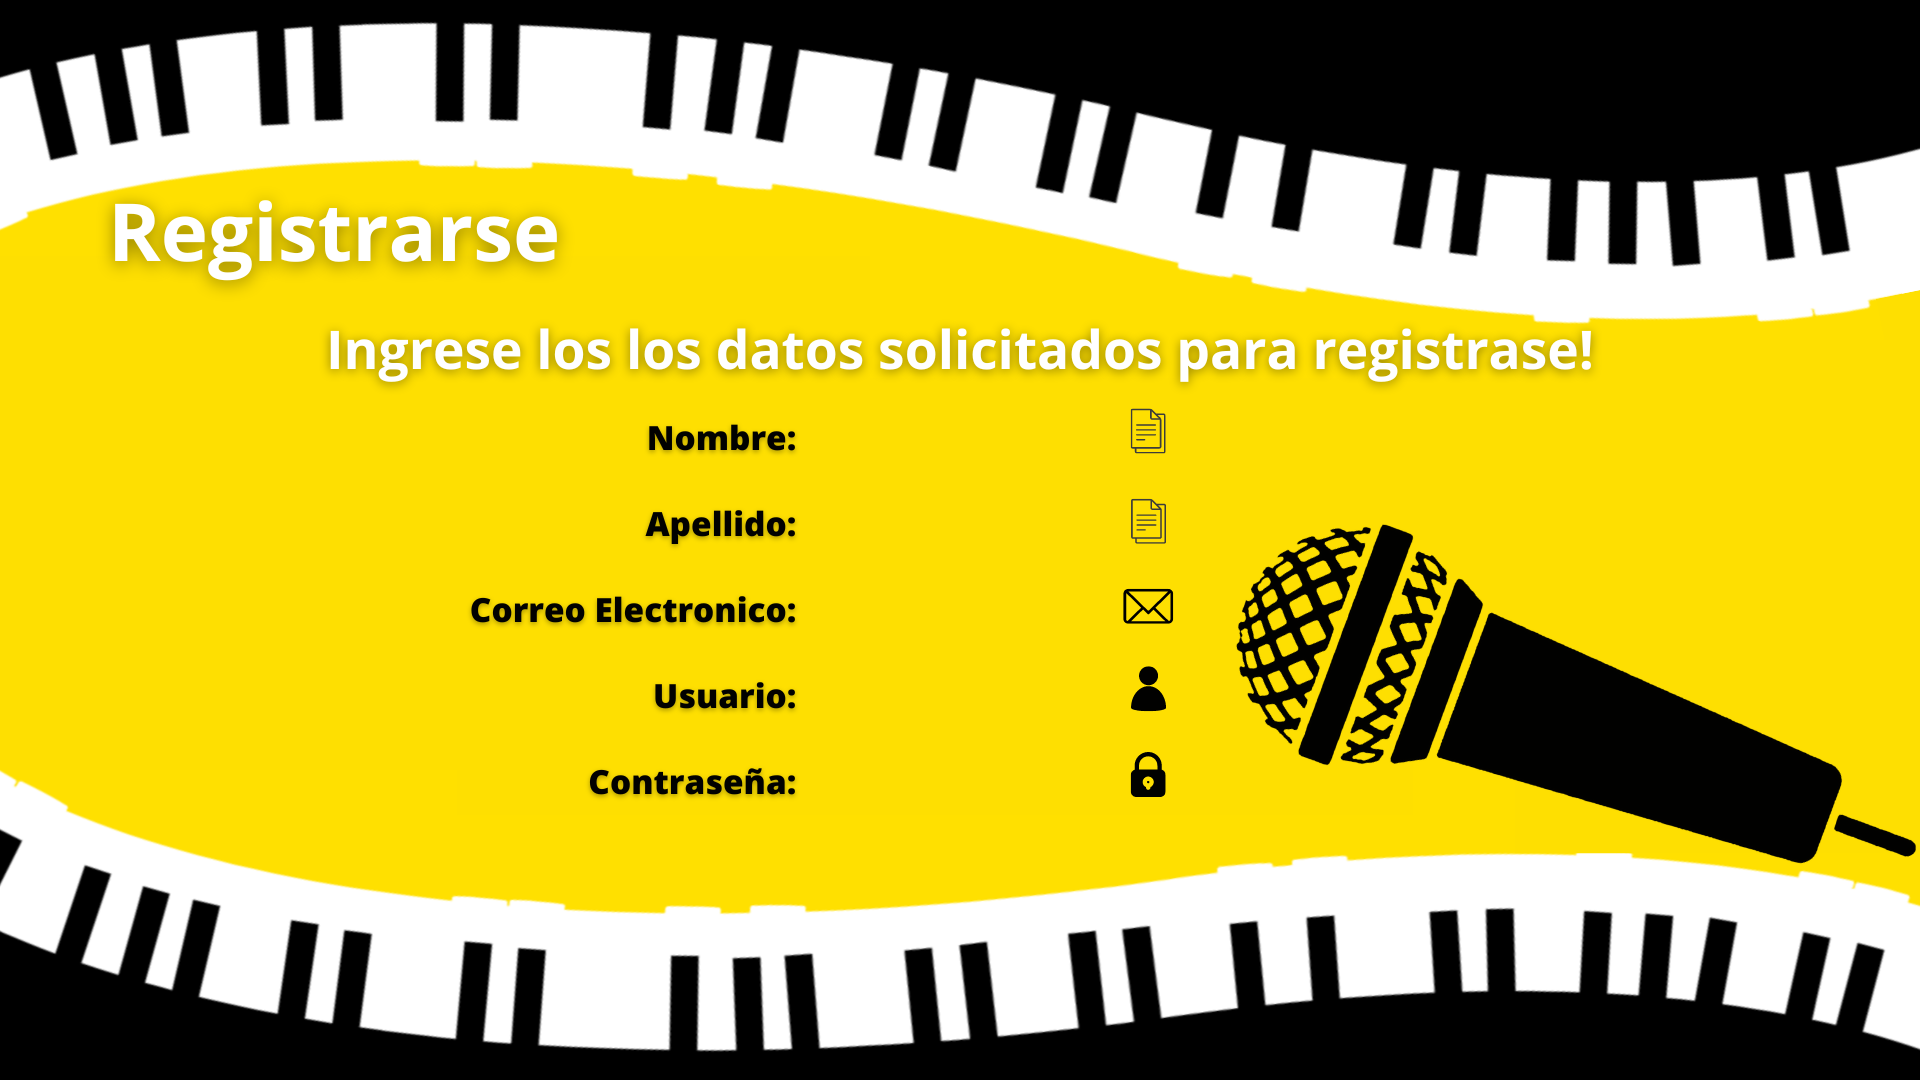
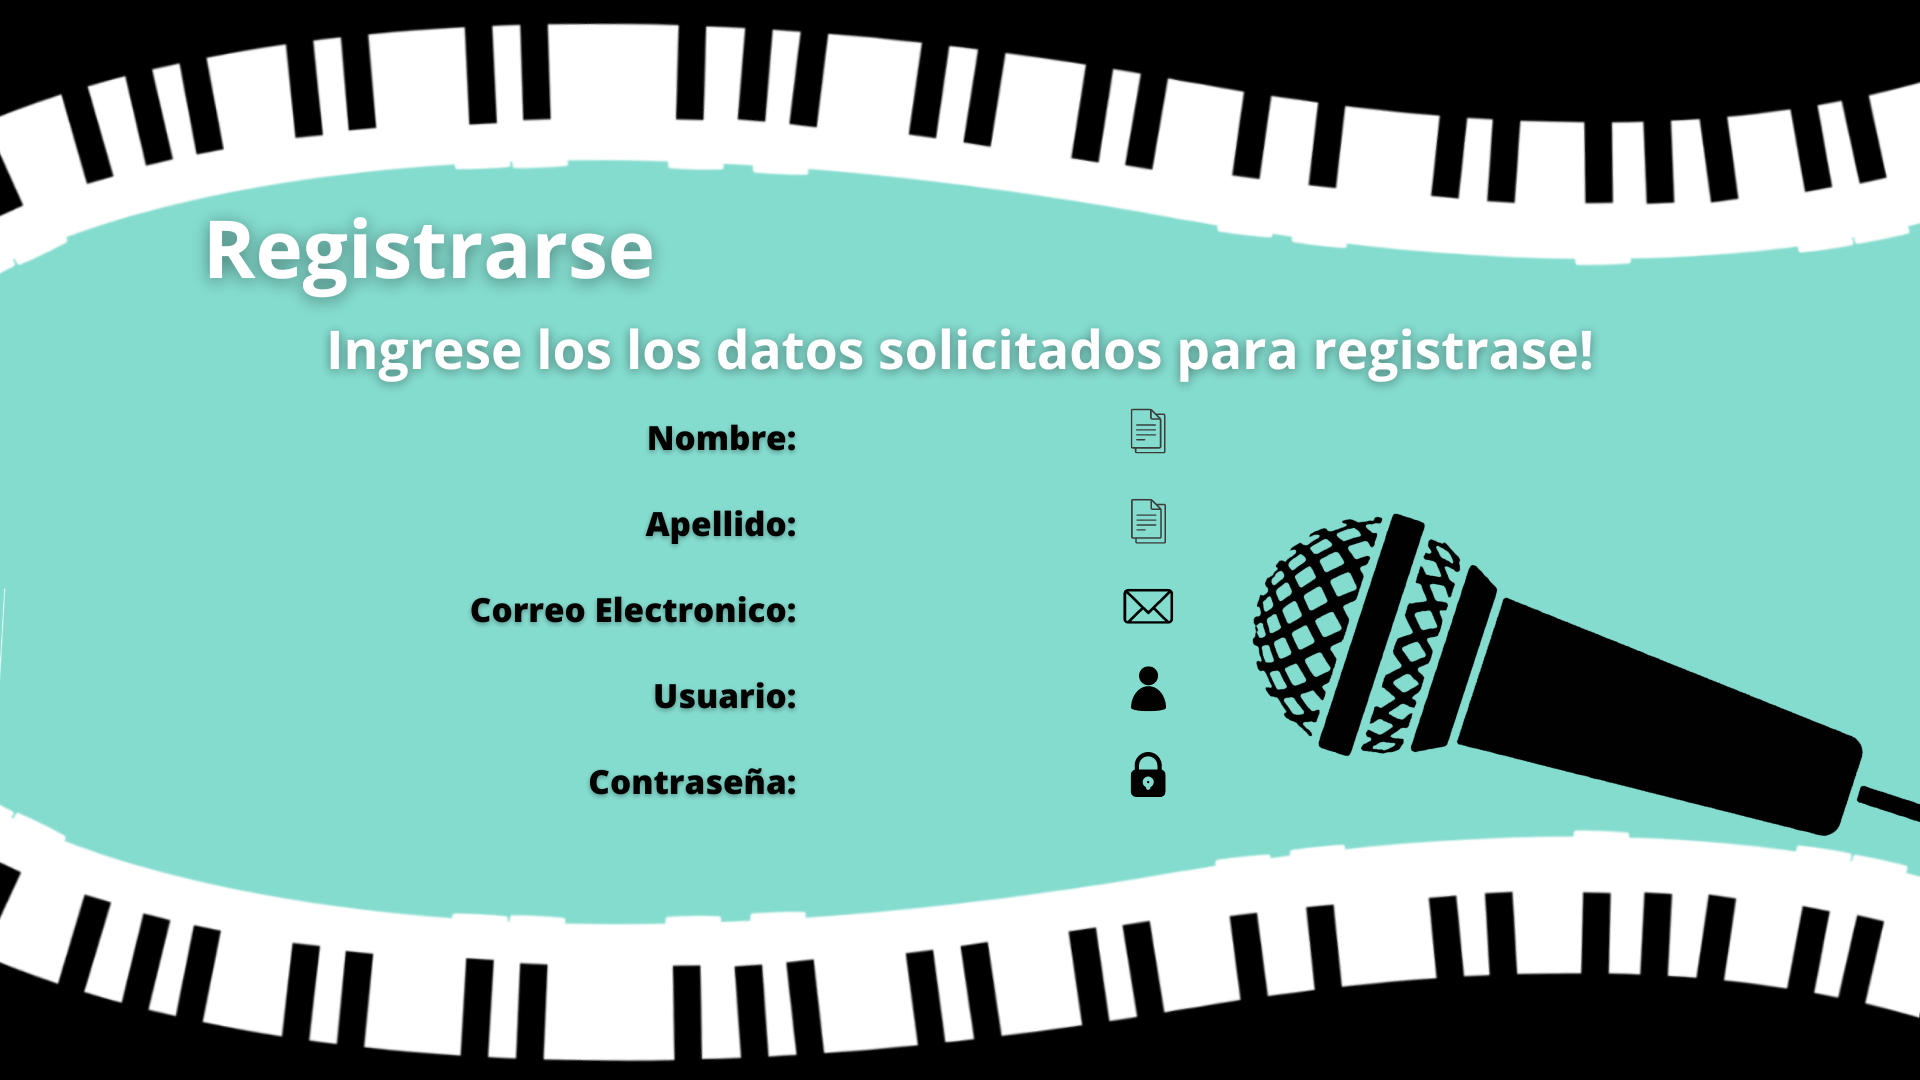
Version 2.0 del Proyecto final

diff --git a/views/window_login.py b/views/window_login.py
@@ -1,6 +1,5 @@
 from config import *
-from data.data_config import User
-from views.window_register import Register
+from window_register import Register
 
 # background image
 bg_login = ctk.CTkImage(Image.open("resources\\background\\login_bg.png"), size=(1920, 1080))
@@ -10,7 +9,7 @@ class Login(Secundary_window):
         def __init__(self, parent):
             super().__init__(parent)
             
-            self.parent = parent
+            self.parent=parent
             
             # ========== background config ==========
             self.bg_panel.configure(image = bg_login)
@@ -20,31 +19,21 @@ class Login(Secundary_window):
             
             self.password_entry = Entry_theme_1(self, placeholder_text = "Ingrese su contraseña", show = "*")
             
-            self.login_button = Button(self,
-                                       border_color= "black", 
-                                       bg_color="#262626",
-                                       fg_color= "#fafafa",
-                                       hover_color= "#FEDF01",
-                                       text = "Iniciar Sesión",
-                                       text_color="black",
-                                       command = lambda: self.login(),
-                                       )
+            self.login_button = Button_theme_1(self,
+                                               text = "Iniciar Sesión",
+                                               text_color="black",
+                                               command = lambda: self.login(),
+                                               )
             
-            self.register_button = Button(self,
-                                          width=250,
-                                          border_color="black",
-                                          bg_color="black",
-                                          fg_color="black",
-                                          hover_color="#FEDF01",
-                                          text = "Registrarse",
-                                          command = lambda: self.open_register_window(),
-                                          )
+            self.register_button = Button_theme_1(self,
+                                                  width=250,
+                                                  text = "Registrarse",
+                                                  command = lambda: self.open_register_window(),)
             
-            self.incorrect_label_text = Label_text(self,
-                                                   bg_color="black",
-                                                   text = "El usuario o contraseña es incorrecto. Por favor intente de nuevo.",
-                                                   size=12, 
-                                                   text_color="red")
+            self.error_label_text = Label_text(self,
+                                               bg_color="black",
+                                               size=12, 
+                                               text_color="red")
             
             # ========== Placing widgets ==========
             self.username_entry.place(x=1250, y=310)
@@ -52,15 +41,28 @@ class Login(Secundary_window):
             self.login_button.place(x=1250, y=440)
             self.register_button.place(x=680, y=989)
                 
-        def login(self):# login necesita ser modificado / Bug, se debe pedir una introduccion minima de caracteres al usar .get()
+        def login(self):
             
-            """Se obtiene de lo escrito de los widgets username y password (Entry) al presionar el boton login del programa, se hace una verificacion de coincidencia de
-            clave y valor en el archivo de registros de los usuarios account.json.
+            """El método permite iniciar sesión al usuario
+            
+            Se hace una entrada de datos (Usuario/Contraseña) por medio de los widgets, luegos se hace 
+            una verificacion de coincidencia de clave y valor en el archivo de registros de los usuarios account.json.
             
             Se destruye la ventana de login y se muestra la principal(Menu)"""
             
+            min_chars = 8
+            error_min_chars = "Usuario y Contraseña deben contener un mínimo de 8 caracteres."
+            error_incorrect = "El usuario o contraseña es incorrecto. Por favor intente de nuevo."
+            
             user = self.username_entry.get()
-            password = sha256(self.password_entry.get().encode('utf-8')).hexdigest()
+            password = self.password_entry.get()
+            
+            if len(user) < min_chars or len(password) < min_chars:
+                self.error_label_text.configure(text = error_min_chars)
+                self.error()
+                return
+            
+            password = sha256(password.encode('utf-8')).hexdigest()
             
             with open("data/account.json", "r") as file:
                 data = json.load(file)
@@ -74,10 +76,15 @@ class Login(Secundary_window):
                     self.parent.deiconify()
                     return
                 else:
-                    self.incorrect_label_text.place(x=1180, y=480)
-                    self.username_entry.delete(0, "end")
-                    self.password_entry.delete(0, "end")
-                    self.login_button.focus()
+                    self.error_label_text.configure(text = error_incorrect)
+                    self.error()
+            
+        def error(self):
+            self.error_label_text.place(x=1180, y=480)
+            self.username_entry.delete(0, "end")
+            self.password_entry.delete(0, "end")
+            self.login_button.focus()
+                  
                     
         def open_register_window(self):
             print("Ir a ventana de registro")

diff --git a/views/window_register.py b/views/window_register.py
@@ -1,5 +1,5 @@
 from config import *
-from data.data_config import User
+from data_config import User
 
 # background image
 bg_register = ctk.CTkImage(Image.open("resources\\background\\register_bg.png"), size=(1920, 1080))
@@ -18,12 +18,13 @@ class Register(Secundary_window):
             self.username_entry = Entry_theme_1(self)
             self.password_entry = Entry_theme_1(self)
             
-            self.register_button = Button(self,
+            self.error_label_text = Label_text(self,
+                                               bg_color="#84DCCF",
+                                               size=12, 
+                                               text_color="red")
+            
+            self.register_button = Button_theme_1(self,
                                           width=200,
-                                          border_color="black",
-                                          bg_color="black",
-                                          fg_color="black",
-                                          hover_color="#FEDF01",
                                           text = "Registrarse",
                                           command = lambda: self.register(),
                                           )
@@ -35,30 +36,40 @@ class Register(Secundary_window):
             self.username_entry.place(x=810, y=675)
             self.password_entry.place(x=810, y=761)
             
-            self.register_button.place(x=860, y = 840)
-
+            self.register_button.place(x=860, y=840)
 
         def register(self):
+            
+            """Este método permite al usuario registrarse
+            
+            Se hace una entrada de datos por medio de los widgets "Entry" posteriormente son validos y notifica al
+            usuario si hubo un error con los datos introducidos. Si todo esta perfecto se añade la información a la
+            base de datos (json)."""
             
             name = self.name_entry.get()
             lastname = self.lastname_entry.get()
             email = self.email_entry.get()
             user = self.username_entry.get()
-            password = sha256(self.password_entry.get().encode('utf-8')).hexdigest()
-
-            # Crear una instancia de User con los datos ingresados
+            password = self.password_entry.get()
+            
+            error_message = self.check_data(name, lastname, email, user, password)
+            if error_message:
+                self.notification_error(error_message)
+                return
+            
+            password = sha256(password.encode('utf-8')).hexdigest()
+            # Creación de un objetos User con los datos ingresados como atributos
             account = User(name, lastname, email, user, password)
 
             with open("data/account.json", "r") as file:
                 data = json.load(file)
                 
-            # Obtener la lista actual de usuarios del archivo JSON o inicializarla si no existe
             user_list = data.get("users", [])
             
             if not data:
                 data = {}
             
-            # Convertir la instancia de User en un diccionario y agregarlo a la lista
+            # Convierte el objeto User en un diccionario y se agrega a una lista
             user_list.append({
                 "name": account.name,
                 "lastname": account.lastname,
@@ -76,6 +87,38 @@ class Register(Secundary_window):
             
             print("Registrado con exito")
             
-            self.destroy()
+            return self.destroy()
             
+        def check_data(self, name, lastname, email, user, password):
             
+            "Valida los datos ingresados en el registro si todo esta bien se continua con el registro, sino se notifica el error cometido"
+            
+            min_chars = 8
+            valid_email = r'\b[A-Za-z0-9._%+-]+@[A-Za-z0-9.-]+\.[A-Z|a-z]{2,7}\b'
+            
+            if len(name) == 0 or len(lastname) == 0 or len(email) == 0 or len(user) == 0 or len(password) == 0:
+                error = "Para poder registrase complete los campos requeridos."
+                return error
+            
+            if not (re.fullmatch(valid_email, email)):
+                error = "El correo electronico ingresado no es valido."
+                return error
+            
+            if len(user) < min_chars and len(password) < min_chars:
+                error = "El usuario y contraseña deben contener como mínimo 8 caracteres."
+                return error
+            
+            if len(user) < min_chars:
+                error = "El usuario debe contener como mínimo 8 caracteres."
+                return error
+            
+            if len(password) < min_chars:
+                error = "La contraseña debe contener como mínimo 8 caracteres."
+                return error 
+            
+        def notification_error(self, message):
+            
+            """Toma como argumento el error y muestra posteriormente en pantalla el error"""
+            
+            self.error_label_text.configure(text = message)
+            self.error_label_text.place(x=800, y=810)

diff --git a/views/config.py b/views/config.py
@@ -2,16 +2,18 @@ import customtkinter as ctk
 from customtkinter import CTkFrame
 from PIL import Image
 import json
+import re
 from hashlib import sha256
 
 ctk.set_appearance_mode("dark")  # modos: system (default), light, dark
 ctk.set_default_color_theme("dark-blue")  # temas: blue (default), dark-blue, green
 
+
 class Secundary_window(ctk.CTkToplevel):
     
     """Configuración basica para todas las ventanas secundarias"""
-    def __init__(self,*args, **kwargs):
-        super().__init__(*args, **kwargs)
+    def __init__(self, parent, *args, **kwargs):
+        super().__init__(parent, *args, **kwargs)
         
          # ========== background config ==========      
         self.title("Proyecto Final")
@@ -25,13 +27,13 @@ class Entry(ctk.CTkEntry):
     
     """ Configuración de Widget Entry """
     
-    def __init__(self, *args, width=300, height = 35, size = 16, **kwargs):  #Aquí, el constructor de la clase actual (self) acepta argumentos variables (args y kwargs).
+    def __init__(self, *args, width=300, height = 35, corner_radius = 5, border_width=2, size = 16, **kwargs):  #Aquí, el constructor de la clase actual (self) acepta argumentos variables (args y kwargs).
         super().__init__(*args, **kwargs)                                    #Luego, se pasa todo el conjunto de argumentos (args y kwargs) a través de la llamada a 
         self.configure(                                                      #super().__init__(*args, **kwargs). Esto significa que cualquier argumento que se pase al
             width = width,                                                   #constructor de la clase actual se transmitirá al constructor de la clase base.
             height = height,                                                 #  ¡Esto permite flexibilidad!
-            corner_radius = 5,
-            border_width = 2,
+            corner_radius = corner_radius,
+            border_width = border_width,
             placeholder_text_color = "#dcdcdc",
             font = ("Open Sans", size, "bold"),
             )
@@ -43,7 +45,8 @@ class Entry_theme_1(Entry):
     def __init__(self,*args, border_color = "white", bg_color = "#262626", fg_color = "black", text_color = "white", **kwargs):
         super().__init__(*args, **kwargs)                                                                                      
         self.configure(
-            border_color = border_color,  
+            border_color = border_color,
+            corner_radius = 0,
             bg_color = bg_color,                                                                   
             fg_color = fg_color,
             text_color = text_color,
@@ -61,7 +64,16 @@ class Button(ctk.CTkButton):
             corner_radius=corner_radius,
             border_width=border_width,
             font=("Open Sans", size, "bold"),
-            )        
+            ) 
+        
+class Button_theme_1(Button):
+    def __init__(self, *args, **kwargs):
+        super().__init__(*args, **kwargs)
+        self.configure(border_color="black",
+                       fg_color="white",
+                       hover_color="#84DCCF",
+                       text_color="black",
+                       )       
         
 class Checkbox_filter(ctk.CTkCheckBox):
     

diff --git a/views/window_menu.py b/views/window_menu.py
@@ -20,20 +20,23 @@ class Menu(ctk.CTk):
         # ========== Creating widgets ==========   
         self.search_entry = Entry_theme_1(self,
                                         width=600,
-                                        height=45,
-                                        size=20
+                                        placeholder_text="Busqueda",
+                                        size=16,
                                         )
         
         self.filtered_frame = ctk.CTkFrame(self,
-                                           width=311,
-                                           height=792,
-                                           fg_color= "#FEDF01"
+                                           corner_radius=0,
+                                           width=432,
+                                           height=694,
+                                           fg_color= "#F2F1EC"
                                            )
         
         self.eventmark_scrollable_frame = ctk.CTkScrollableFrame(self,
-                                                                 width=1377,
-                                                                 height=780,
-                                                                 fg_color= "#FEDF01",
+                                                                 corner_radius=0,
+                                                                 border_width=0,
+                                                                 width=1260,
+                                                                 height=693,
+                                                                 fg_color= "#F2F1EC",
                                                                  )
         
         # ========== frame filter widgets ==========  
@@ -64,9 +67,9 @@ class Menu(ctk.CTk):
                                                          text = "Hs: 19:00 a 00:00")
         
         # ========== Placing widgets ==========  
-        self.search_entry.place(x=790, y=228)
-        self.filtered_frame.place(x=103, y=288)
-        self.eventmark_scrollable_frame.place(x=417, y=288)
+        self.search_entry.place(x=815, y=333.5)
+        self.filtered_frame.place(x=103.5, y=382.4)
+        self.eventmark_scrollable_frame.place(x=540, y=382.4)
         
         # ========== Frame filter ==========
         self.ubication_label_text.place(x=10, y=10)  

diff --git a/views/main.py b/views/main.py
@@ -1,5 +1,5 @@
-from views.window_menu import*
-from views.window_login import Login
+from window_menu import*
+from window_login import Login
 
 if __name__ == "__main__":
     

diff --git a/README.md b/README.md
@@ -1,11 +1,23 @@
-<h1 align="center"> Final Proyect </h1>
+# World Tour Music
 
-Proyecto final de programación de curso en Python, en el se busca implementar los conocimientos adquiridos.
+Es una aplicación de escritorio que permita a los usuarios descubrir eventos
+musicales, planificar rutas y compartir su experiencia de manera eficiente y
+agradable.
 
-<h3> Lenguaje </h3>
-<p>Python = 3.8.3</p>
+## Pre-requisitos 📋
+```
+python 3.8.3
 
-<h3> Librerias </h3>
-<p>CustomTkinter = 5.2.0</p>
+customtkinter 5.2.0
+
+pillow 10.0.0
+
+tkintermapview 1.29
+```
+
+## Instalación 🛠
+Clona el repositorio
+
+## Funcionalidades
 
         
